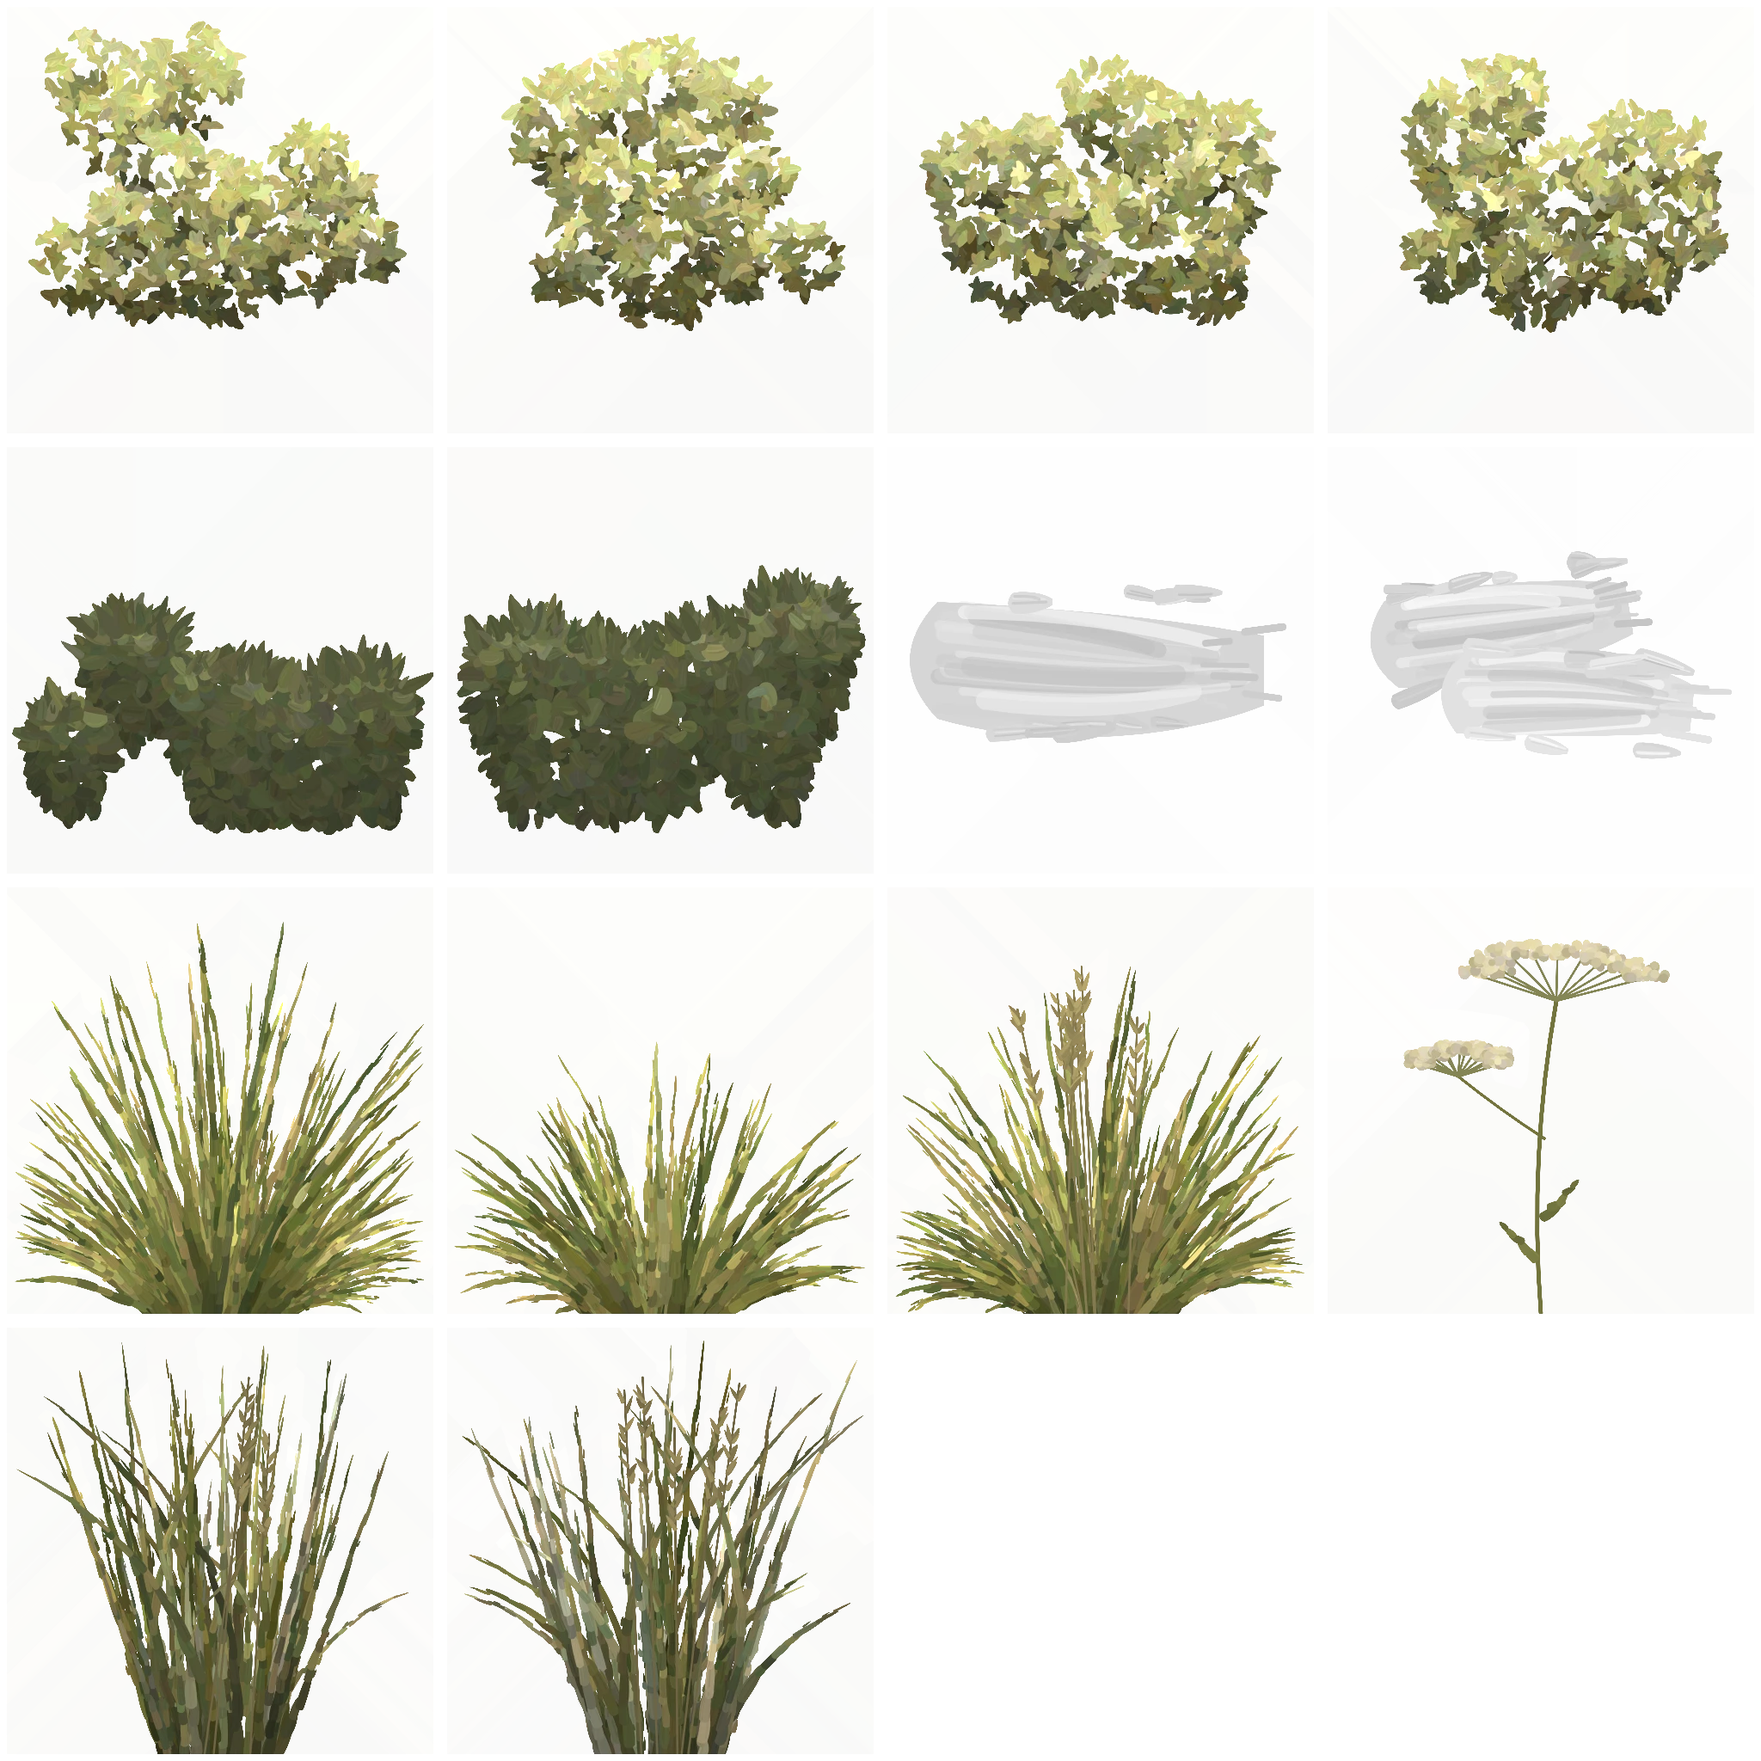
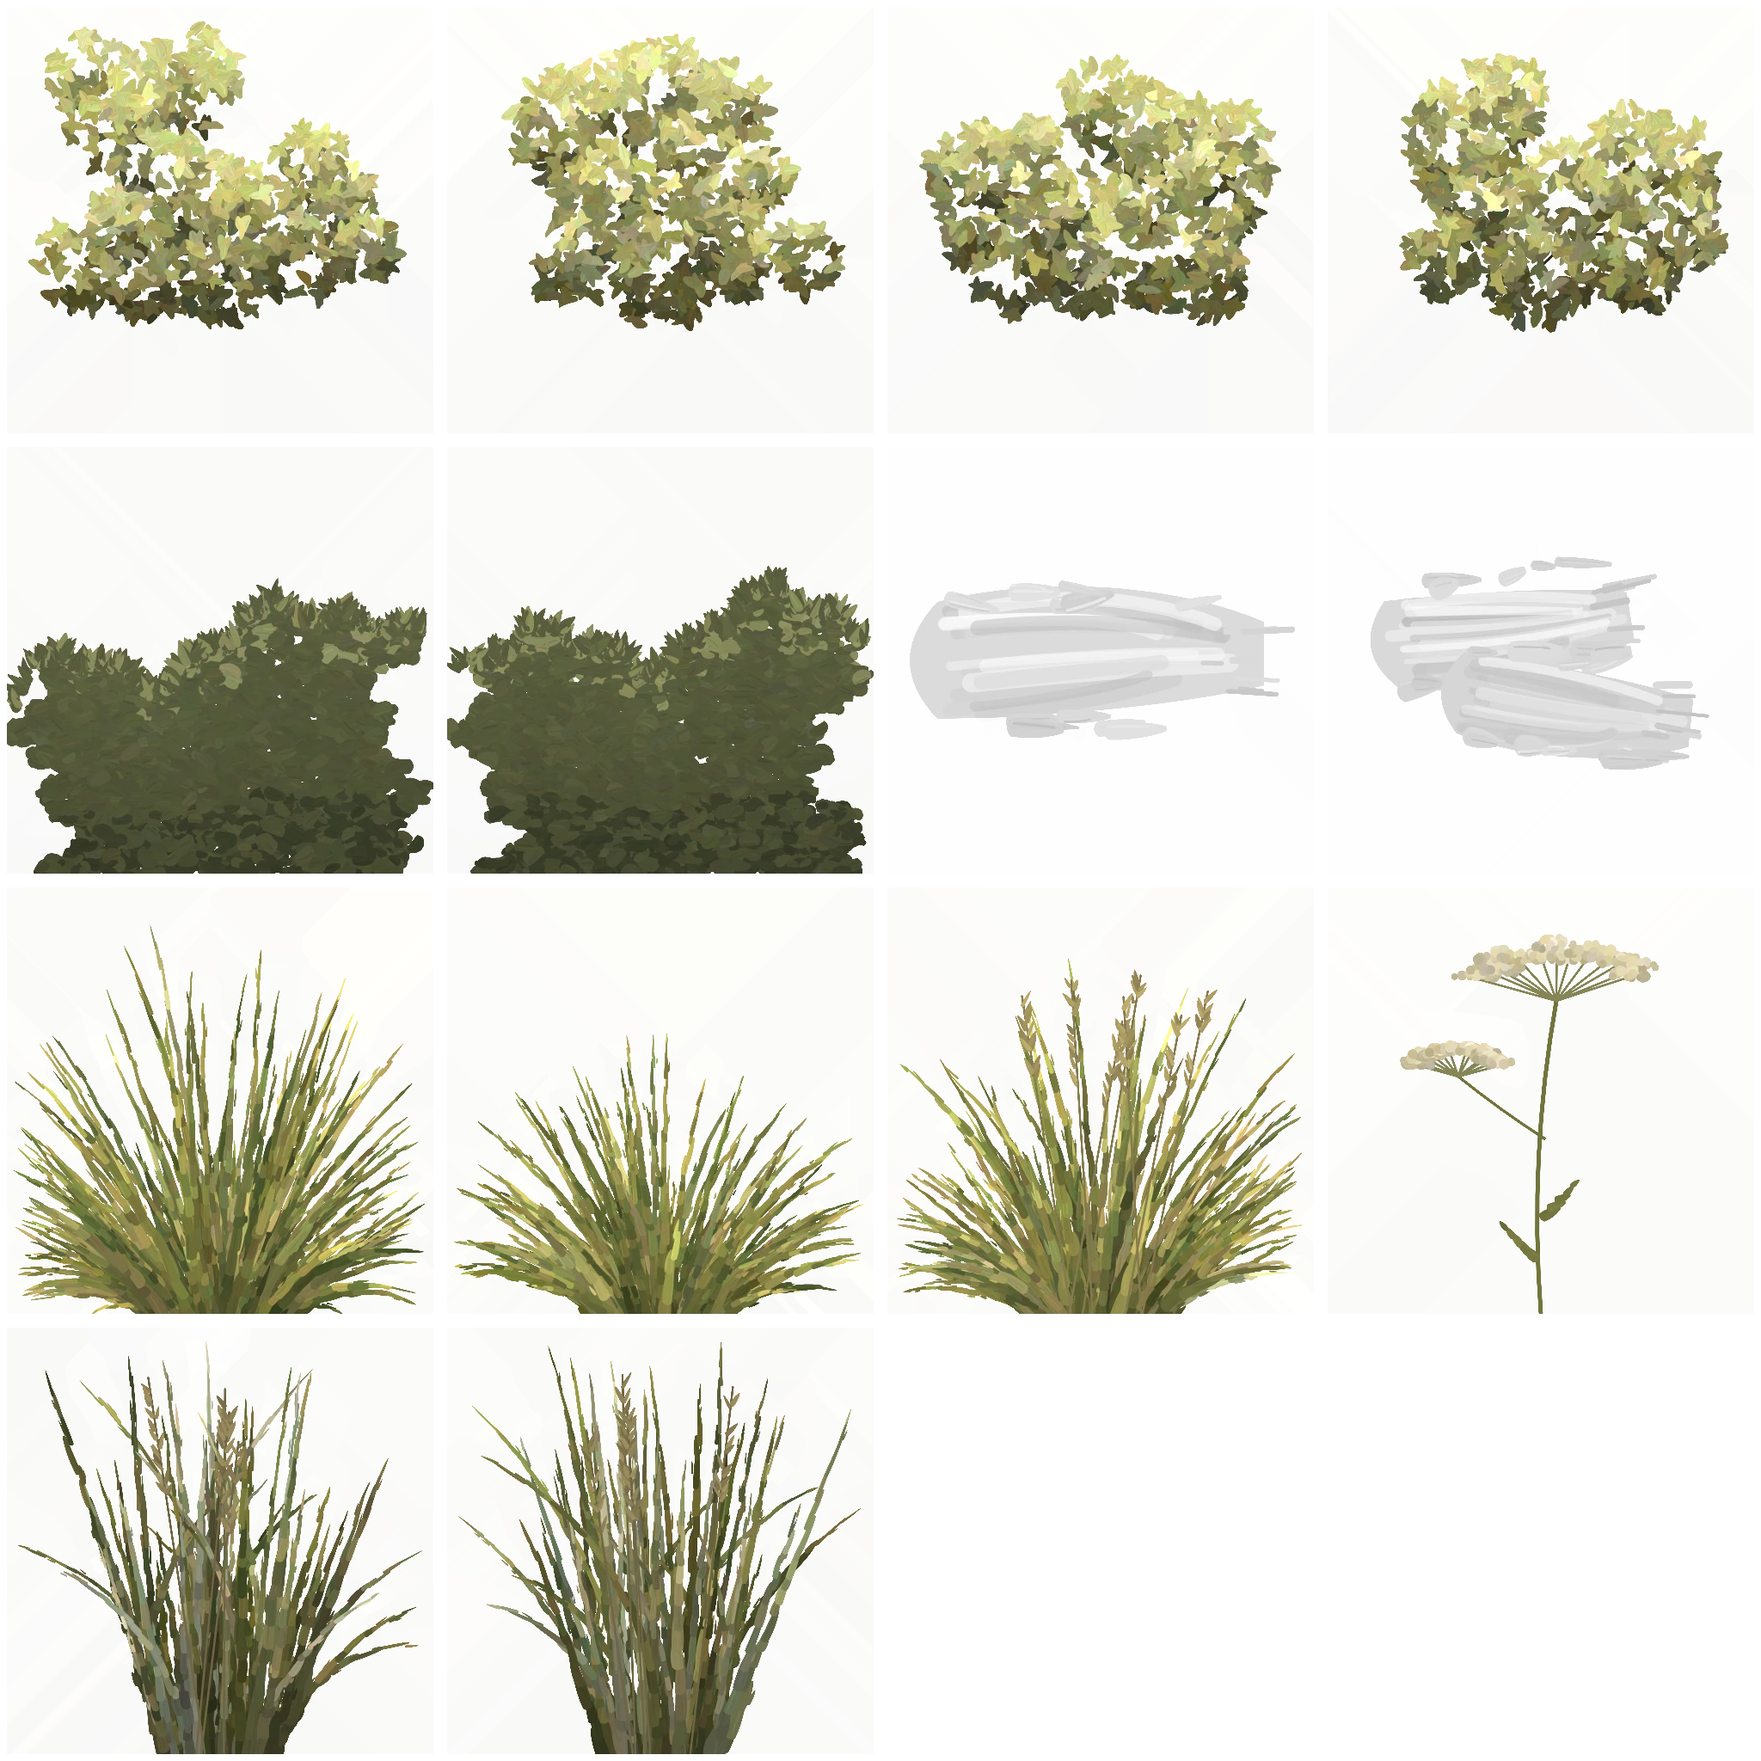
Build the woods as a tree line of wide cards, and give every atlas cell its own stream

diff --git a/scripts/space-painter/painter.js b/scripts/space-painter/painter.js
@@ -23,14 +23,16 @@ const jitter = (rand, c, k = .08) => c.map(v => v * (1 + (rand() - .5) * k));
 // rejections it gives up and takes any pixel).
 function sampler(paint, rects, rand, keep = null, tries = 40) {
   const areas = rects.map(r => r[2] * r[3]), total = areas.reduce((a, b) => a + b, 0);
-  const raw = () => {
-    let t = rand() * total, k = 0; while (t > areas[k] && k < rects.length - 1) t -= areas[k++];
-    const r = rects[k], x = r[0] + (rand() * r[2] | 0), y = r[1] + (rand() * r[3] | 0), i = (y * paint.width + x) * 4;
+  const raw = q => {
+    let t = q() * total, k = 0; while (t > areas[k] && k < rects.length - 1) t -= areas[k++];
+    const r = rects[k], x = r[0] + (q() * r[2] | 0), y = r[1] + (q() * r[3] | 0), i = (y * paint.width + x) * 4;
     return [paint.data[i], paint.data[i + 1], paint.data[i + 2]];
   };
-  const pick = () => { for (let n = 0; n < tries; n++) { const c = raw(); if (!keep || keep(c)) return c; } return raw(); };
+  const pickWith = q => { for (let n = 0; n < tries; n++) { const c = raw(q); if (!keep || keep(c)) return c; } return raw(q); };
+  const pick = () => pickWith(rand);
   const mean = [0, 0, 0]; for (let n = 0; n < 3000; n++) { const c = pick(); for (let q = 0; q < 3; q++) mean[q] += c[q] / 3000; }
-  return {pick, mean};
+  // The same colours and mean, picked from another stream, so a card cell's picks never move any other cell's.
+  return {pick, mean, using: q => ({pick: () => pickWith(q), mean})};
 }
 
 function canvas(w, h = w) { const c = document.createElement('canvas'); c.width = w; c.height = h; return c; }
@@ -370,27 +372,32 @@ const CARDS = {
     }
     g.drawImage(leaves, 0, 0);
   },
-  // Distant tree masses: a flat-bottomed cluster of overlapping crowns whose tops rise and fall unevenly across the cell (so a
-  // card's upper edge is never one level line), in a narrow sage-to-moss range with blunt strokes. The outline is feathered
-  // rather than domed: narrow strokes of uneven length flick outward from the upper outline along its normal, in the mass's
-  // own middle tones, so the skyline breaks softly like the painting's distant trees.
+  // A tree line seen from a distance: one low, broad mass across most of the cell, its base on the cell's bottom edge, and an
+  // uneven, feathered top line with detail at every scale (layered noise, then strokes of many lengths flicking up from it) and
+  // no single hummock. Low contrast inside: close mid sage and moss tones, a slightly lighter band along the top, darker toward
+  // the base, no light speckle.
   woods(g, r, n, i, s) {
-    const k = n / 512, count = 6 + (r() * 3 | 0), floor = n * (.86 + r() * .05), lobes = [];
-    for (let q = 0; q < count; q++) {
-      const rad = (34 + r() * 34) * k, rx = rad * (1.05 + r() * .4), x = clamp(40 * k + (q + .5) / count * (n - 80 * k) + (r() - .5) * 30 * k, rx + 28 * k, n - rx - 28 * k);
-      lobes.push({x, y: clamp(n * (.42 + r() * .26), rad + 80 * k, n), rad, rx, column: true});
+    const k = n / 512, left = MARGIN + 6 * k, right = n - MARGIN - 6 * k, foot = n - MARGIN - 1, waves = [];
+    for (const [period, amp] of [[n * 1.3, 40], [n * .45, 20], [n * .17, 10], [n * .07, 6], [n * .03, 3]]) waves.push([period, amp * k, r() * TAU]);
+    const crest = n * (.38 + r() * .06), topY = x => crest + waves.reduce((y, [p, a, ph]) => y + a * Math.sin(x / p * TAU + ph), 0)
+      + 50 * k * Math.max(0, 1 - Math.min(x - left, right - x) / (110 * k)) ** 2; // the ends dip a little, so a card's edge never cuts square
+    const tone = (from, depth) => mul(mix(from.pick(), from.mean, .75), 1.06 - .24 * depth);
+    // the body, in blunt strokes from the base up, each a close neighbour of the mean, darker toward the base
+    const side = [r() * TAU, r() * TAU], ragged = (y, e) => (40 + 26 * Math.sin(y / (37 * k) + side[e]) + 16 * Math.sin(y / (13 * k) + 2 * side[e]) + 8 * Math.sin(y / (5 * k) + 3 * side[e])) * k;
+    for (let q = 0, strokes = 4200 * k * k; q < strokes; q++) {
+      const x = left + r() * (right - left), y0 = topY(x), y = y0 + 6 * k + r() * (foot - y0 - 6 * k), depth = (y - y0) / (foot - y0);
+      const from = depth < .18 ? (r() < .25 ? s.woodsLight : s.woods) : depth > .7 ? (r() < .5 ? s.woodsDark : s.woods) : s.woods;
+      const len = (10 + r() * 14) * k;
+      if (x < left + ragged(y, 0) || x > right - ragged(y, 1)) continue; // the ends break unevenly instead of cutting square
+      dab(g, x, y, {angle: (r() - .5) * 1.4 + (r() < .5 ? 0 : Math.PI), len, width: len * (.6 + r() * .3), color: jitter(r, tone(from, depth), .05), alpha: 1, bristles: 3,
+        bend: (r() - .5) * .6, taper: .6}, r);
     }
-    leafMass(g, r, n, {lobes, floor, count: 1300 * k * k, leaf: [16 * k, 30 * k], rosette: false, light: s.woodsLight, mid: s.woods, dark: s.woodsDark, contrast: .5, calm: .45, taper: .6});
-    // the band's upper edge across the cell, and its slope, from the same lobes leafMass filled
-    const top = x => lobes.reduce((t, l) => { const u = (x - l.x) / l.rx; return Math.abs(u) < 1 ? Math.min(t, l.y - l.rad * Math.sqrt(1 - u * u)) : t; }, Infinity);
-    for (let q = 0, flicks = 240 * k; q < flicks; q++) {
-      const x = 40 * k + r() * (n - 80 * k), y0 = top(x);
-      if (!Number.isFinite(y0)) continue;
-      const slope = (top(x + 6 * k) - top(x - 6 * k)) / (12 * k), lean = Number.isFinite(slope) ? Math.atan(slope) : 0;
-      const len = (10 + r() ** 2 * 38) * k, angle = -Math.PI / 2 + lean + (r() - .5) * 1.2, inset = (4 + r() * 16) * k;
-      const lit = r() < .25, col = mix(lit ? s.woodsLight.pick() : s.woods.pick(), s.woods.mean, .6);
-      dab(g, x + Math.cos(angle) * len * .35, y0 + inset + Math.sin(angle) * len * .35, {angle, len, width: len * (.28 + r() * .2), color: jitter(r, col, .08),
-        alpha: 1, bristles: 2, bend: (r() - .5) * .6, taper: .85}, r);
+    // the feathered top: many narrow strokes of very different lengths flicking up from the line, lit a touch more than the body
+    for (let q = 0, flicks = 1100 * k; q < flicks; q++) {
+      const x = left + 4 * k + r() * (right - left - 8 * k), y0 = topY(x), slope = (topY(x + 4 * k) - topY(x - 4 * k)) / (8 * k);
+      const len = (5 + r() ** 2.2 * 26) * k, angle = -Math.PI / 2 + Math.atan(slope) * .6 + (r() - .5) * 1.0;
+      dab(g, x + Math.cos(angle) * len * .3, y0 + (2 + r() * 6) * k + Math.sin(angle) * len * .3, {angle, len, width: len * (.3 + r() * .2),
+        color: jitter(r, tone(r() < .3 ? s.woodsLight : s.woods, .08), .05), alpha: 1, bristles: 2, bend: (r() - .5) * .5, taper: .9}, r);
     }
   },
   // Neutral light dabs (the scene tints them): one long loaded stroke, or a pair; ragged where the bristles run dry.
@@ -460,6 +467,14 @@ function seedStalk(g, r, n, x, foot, len, lean, color) {
     dab(g, px + side * 5 * k, py, {angle: -Math.PI / 2 + lean + side * (.3 + r() * .4), len: (12 + r() * 10) * k, width: (4 + r() * 3) * k, color: mul(color, .85 + r() * .3), alpha: 1, bristles: 1, taper: .9}, r); }
 }
 
+// Where each card cell's random stream starts, as a number of steps along the cards seed's stream (index = atlas cell). Every cell
+// paints and picks its colours from its own stream, so changing one cell's painting can never move another's. These are the
+// points the atlas's old shared running stream had reached when each cell began, so the approved cells paint exactly as they
+// were; to re-roll one cell, change its entry.
+const STEP = 0x6D2B79F5;
+const CELL_STREAMS = Object.freeze([2462901, 2533051, 2591138, 2648799, 2706628, 2729369, 2753604, 2753605, 2753606, 2754081, 2754478, 2754914,
+  2889858, 2890570]);
+
 function paintCards(paint, r) {
   const {size, cell: n, cells} = SPACE_ART.cards, atlas = canvas(size), ag = atlas.getContext('2d'), per = size / n;
   const leafy = c => c[1] >= c[2] * 1.12 && c[1] >= c[0] * .85, S = (name, keep) => sampler(paint, REGIONS[name], r, keep, 2000);
@@ -469,8 +484,11 @@ function paintCards(paint, r) {
     woodsDark: S('woods', c => leafy(c) && c[1] >= c[0] && lum(c) > 45 && lum(c) <= 85), meadow: S('meadow', greenish), cream: S('meadow', c => lum(c) > 190),
     reeds: S('reeds', c => c[1] >= c[2] * 1.15 && c[1] >= c[0] * .95 && lum(c) > 60 && lum(c) < 165)};
   for (const [kind, list] of Object.entries(cells)) list.forEach((index, i) => {
+    // The cell's own stream: its first number seeds its painting, the rest pick its colours. Nothing else draws from it.
+    const own = rng(Math.imul(CELL_STREAMS[index], STEP) + SEEDS.cards | 0), seed = own() * 4294967296 | 0;
+    const picks = Object.fromEntries(Object.entries(s).map(([k, v]) => [k, v.using(own)]));
     const c = canvas(n), g = c.getContext('2d', {willReadFrequently: true});
-    CARDS[kind](g, rng(r() * 4294967296 | 0), n, i, s);
+    CARDS[kind](g, rng(seed), n, i, picks);
     ag.putImageData(finishCard(g, n), (index % per) * n, Math.floor(index / per) * n);
   });
   return atlas;

diff --git a/public/space/scene/trees.js b/public/space/scene/trees.js
@@ -138,42 +138,38 @@ export function buildOak(THREE, {space, dressing, art}) {
   return {object, dispose: () => disposeAll(object)};
 }
 
-// The woods: each planned clump a tree-like mass of fixed cards standing toward the yard, in a narrow sage-to-moss range,
-// paler and bluer the farther past the wall, with a dark stroke or two of trunk beneath.
+// The woods: a tree line seen across the wall, built from wide cards of the `woods` cells (each a broad mass with a feathered
+// top) standing in the three planned rows. Every card spans several metres and overlaps its neighbours by well over a third,
+// so no single crown's outline survives; a row shares one height range (the back row taller, paler and bluer, the front row
+// lower and darker) that swells and dips only slowly along the band, so nothing stands clear of it. The cards are fixed in the
+// world at varied yaw so they never line up into one flat screen, and the three rows give the band depth seen along it. (Cards
+// standing across the rows were tried and dropped: seen edge-on from the yard they drew as thin poles.)
+const WOODS_ROWS = [{offset: 8, top: 6.4, haze: 0, shade: .95}, {offset: 14, top: 7.6, haze: .2, shade: 1}, {offset: 20, top: 8.8, haze: .4, shade: 1.03}];
+// The share of a woods card's height its mass fills below the feathered top line (from the cell's painting).
+const WOODS_MASS = .6;
+
 export function buildWoods(THREE, {space, dressing, art}) {
-  const plan = woodsPlan(space, dressing), r = stream(dressing.seed + 22), cells = SPACE_ART.cards.cells, cards = cardBatch(SPACE_ART);
-  const w = space.wall, yard = [w.reduce((s, p) => s + p[0], 0) / w.length, w.reduce((s, p) => s + p[1], 0) / w.length];
-  const SAGE = [1.22, 1.3, 1.12], MOSS = [1.24, 1.28, .9], FAR = [1.6, 1.72, 1.85], TRUNK = [.07, .06, .045];
-  const far = Math.max(...plan.map(c => Math.hypot(c.center[0] - yard[0], c.center[1] - yard[1])));
-  const near = Math.min(...plan.map(c => Math.hypot(c.center[0] - yard[0], c.center[1] - yard[1])));
-  // Each crown's height is mostly its neighbours' (within 9 m), so heights vary gently along the band and no tree stands clear.
-  const planned = plan.map(c => (c.center[2] - terrainHeight(space, c.center[0], c.center[1])) / .55);
-  const heights = plan.map((c, i) => {
-    let sum = 0, weight = 0;
-    plan.forEach((o, j) => { const w = Math.max(0, 1 - Math.hypot(o.center[0] - c.center[0], o.center[1] - c.center[1]) / 9); sum += w * planned[j]; weight += w; });
-    return Math.min(10, (.35 * planned[i] + .65 * sum / weight) * (.92 + .16 * hash(i, 3, 73)));
-  });
+  const plan = woodsPlan(space, dressing), cells = SPACE_ART.cards.cells, cards = cardBatch(SPACE_ART), w = space.wall;
+  const SAGE = [1.22, 1.3, 1.12], MOSS = [1.24, 1.28, .9], FAR = [1.6, 1.72, 1.85];
+  // the nearest wall edge to a point: its direction, the normal into the yard, and how far beyond it the point is
+  const area = w.reduce((s, p, k) => s + p[0] * w[(k + 1) % w.length][1] - w[(k + 1) % w.length][0] * p[1], 0);
+  const nearestEdge = ([x, y]) => w.map((a, i) => {
+    const b = w[(i + 1) % w.length], len = Math.hypot(b[0] - a[0], b[1] - a[1]), d = [(b[0] - a[0]) / len, (b[1] - a[1]) / len];
+    const t = clamp01(((x - a[0]) * d[0] + (y - a[1]) * d[1]) / len), dist = Math.hypot(x - a[0] - d[0] * t * len, y - a[1] - d[1] * t * len);
+    return {d, inward: area > 0 ? [-d[1], d[0]] : [d[1], -d[0]], dist};
+  }).reduce((m, e) => e.dist < m.dist ? e : m);
+  const card = (centre, along, inward, half, height, row, i, k) => {
+    const ground = Math.min(...[-1, 0, 1].map(f => terrainHeight(space, centre[0] + along[0] * half * f, centre[1] + along[1] * half * f)));
+    const hh = height / WOODS_MASS / 2, base = mix(mix(SAGE, MOSS, noise(centre[0] * .08, centre[1] * .08, 71)), FAR, row.haze).map(v => v * row.shade);
+    cards.add([centre[0], centre[1], ground - .4 + hh], [along[0] * half, along[1] * half, 0], [0, 0, hh], cells.woods[(i + k) % 2],
+      base.map(v => v * .82), base, V.norm([inward[0], inward[1], 1]), hash(i, k, 75) < .5);
+  };
   plan.forEach((clump, i) => {
-    const [x, y] = clump.center, ground = terrainHeight(space, x, y), tall = heights[i], R = clump.radius;
-    const d = clamp01((Math.hypot(x - yard[0], y - yard[1]) - near) / (far - near)), hue = mix(SAGE, MOSS, noise(x * .08, y * .08, 71));
-    const base = mix(hue, FAR, .6 * d), toYard = V.norm([yard[0] - x, yard[1] - y, 0]);
-    const n = Math.round(10 + R * 4 + tall * 2.2);
-    for (let k = 0; k < n; k++) {
-      // a crown from a quarter of the way up, wide low and narrowing high, its cards thinning and shrinking toward the top so it
-      // never tiers; the cells' feathered upper edges make the skyline; every fourth card is low in the understorey so no sky
-      // shows under the mass
-      const h = r() ** 1.6, spread = R * 1.25 * (1 - .55 * h) * Math.sqrt(r()), a = r() * TAU;
-      const c = [x + Math.sin(a) * spread, y + Math.cos(a) * spread, ground + tall * (k % 4 ? .26 + .6 * h : .1 + .2 * h)];
-      const turn = (r() - .5) * 1.6, normal = V.norm([toYard[0] * Math.cos(turn) - toYard[1] * Math.sin(turn), toYard[0] * Math.sin(turn) + toYard[1] * Math.cos(turn), (r() - .5) * .3]);
-      const [right, up0] = basis(normal), lean = (r() - .5) * .3, up = V.add(V.scale(up0, Math.cos(lean)), right, Math.sin(lean)), across = V.norm(V.cross(up, normal));
-      const size = (1.5 + r() * 1.0) * (.75 + .25 * R / 4) * (1 - .3 * h), k0 = (.9 + .12 * h) * (.95 + r() * .1);
-      cards.add(c, V.scale(across, size * 1.05), V.scale(up, size), cells.woods[k % 2], base.map(v => v * k0 * .85), base.map(v => v * k0),
-        V.norm(V.add(toYard, [0, 0, 1])), r() < .5);
-    }
-    for (let k = 0; k < 2; k++) {
-      const tx = x + (r() - .5) * R * .6, ty = y + (r() - .5) * R * .6, toward = V.norm([yard[0] - tx, yard[1] - ty, 0]), g = terrainHeight(space, tx, ty);
-      cards.add([tx, ty, g + tall * .2], [-toward[1] * .07, toward[0] * .07, 0], [0, 0, tall * .2], cells.dab[0], mix(TRUNK, FAR, .1 * d), mix(TRUNK, FAR, .1 * d), toward);
-    }
+    const [x, y] = clump.center, edge = nearestEdge([x, y]);
+    const row = WOODS_ROWS.reduce((m, r) => Math.abs(r.offset - edge.dist) < Math.abs(m.offset - edge.dist) ? r : m);
+    const yaw = (hash(i, 1, 74) - .5) * .7, along = [edge.d[0] * Math.cos(yaw) - edge.d[1] * Math.sin(yaw), edge.d[0] * Math.sin(yaw) + edge.d[1] * Math.cos(yaw)];
+    const height = row.top * (.84 + .3 * noise(x / 26, y / 26, 76) + .06 * hash(i, 2, 74)), half = 7 + 2 * hash(i, 3, 74);
+    card([x, y], along, edge.inward, half, height, row, i, 0);
   });
   const object = new THREE.Group(); object.name = 'woods';
   const masses = new THREE.Mesh(cards.geometry(THREE), cardMaterial(THREE, art.cards, SPACE_ART)); masses.name = 'masses';
